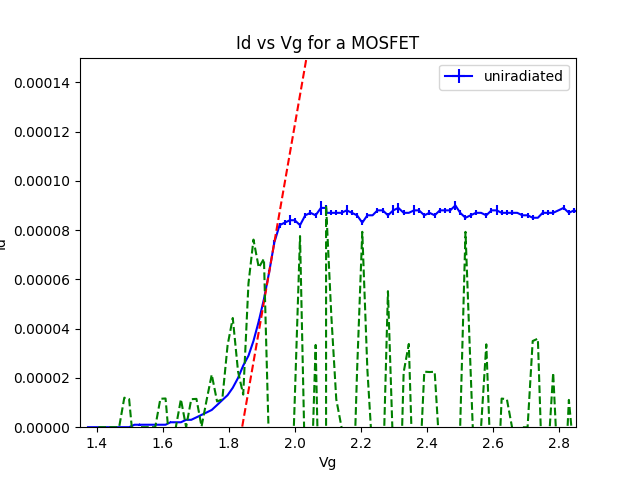
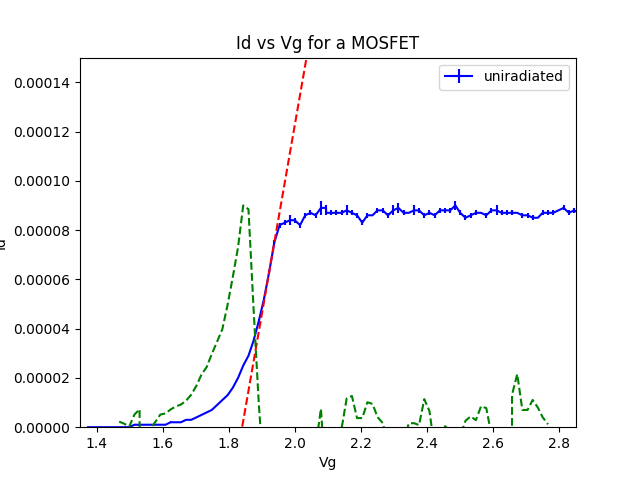
done code???

Changed region(s): [[0.1875, 0.4375, 0.6875, 0.9062], [0.7188, 0.5, 0.9062, 0.9062]]

diff --git a/analysis.py b/analysis.py
@@ -3,11 +3,11 @@ import numpy as np
 import matplotlib.pyplot as plt
 import scipy.stats as stats
 
-iv_graph = True
-steepest_line = True
-derivative = True
-dvt_over_time = False
-lvt_over_time = False
+iv_graph = False
+steepest_line = False
+derivative = False
+dvt_over_time = True
+lvt_over_time = True
 
 if (iv_graph or steepest_line or derivative) and (dvt_over_time or lvt_over_time):
     print("Please only select compatible graph types")
@@ -85,22 +85,30 @@ def calculate_derivative(x, y):
 
 def calculate_smoothed_derivative(x, y):
     derivative = np.array([])
-    r = 3
+    r = 5
+    NC = r * (r + 1) * (2 * r + 1) / 3
     for i in range(r, len(y) - r - 1):
-        #TODO: Implement smoothing algorithm
-        pass
+        sum = 0
+        for j in range(-r, r + 1):
+            sum += y[i + j] * j
+        derivative = np.append(derivative, (sum / NC) * (1/((x[i+1]-x[i])+(x[i]-x[i-1]))/2))
+    return list(derivative)
 
 #calculate and plot derivative
 def plot_derivative(datasets):
     for dataset in datasets:
         currents = dataset[0][0]
         voltages = dataset[1][0]
-        derivative = calculate_derivative(voltages, currents)
-        derivative2 = calculate_derivative(voltages[1:-1], derivative)
+        derivative = calculate_smoothed_derivative(voltages, currents)
+        offset = int(-(len(derivative) - len(voltages)) / 2)
+        voltages = voltages[offset:-offset]
+        derivative2 = calculate_derivative(voltages, derivative)
         max_current = max(currents)
         scaled_derivative2 = np.array(derivative2) * (max_current / max(derivative2))
         offset = int(-(len(derivative2) - len(voltages)) / 2)
-        voltages = voltages[offset:-offset]
+        print("offset:", offset)
+        voltages = voltages[offset:-offset-1]
+        print("voltages:", len(voltages), "derivative2:", len(derivative2))
         plt.errorbar(voltages,scaled_derivative2,fmt="--", color = 'green')
         index_max_derivative2 = derivative2.index(max(derivative2))
         max_derivative2_voltage = voltages[index_max_derivative2]
@@ -117,14 +125,41 @@ def plot_derivative_thresholds_time(datasets):
         current_std = dataset[0][1]
         voltages = dataset[1][0]
         voltage_std = dataset[1][1]
-        derivative = calculate_derivative(voltages, currents)
-        derivative2 = calculate_derivative(voltages[1:-1], derivative)
-        offset = int(-(len(derivative2) - len(voltages)) / 2)
+        derivative = calculate_smoothed_derivative(voltages, currents)
+        offset = int(-(len(derivative) - len(voltages)) / 2)
         voltages = voltages[offset:-offset]
+        derivative2 = calculate_derivative(voltages, derivative)
+        offset = int(-(len(derivative2) - len(voltages)) / 2)
+        voltages = voltages[offset:-offset-1]
         index_max_derivative2 = derivative2.index(max(derivative2))
         max_derivative2_voltages.append(voltages[index_max_derivative2])
         errors.append(max((voltages[index_max_derivative2 + 1]) - voltages[index_max_derivative2], voltages[index_max_derivative2] - voltages[index_max_derivative2 - 1]))
-    plt.errorbar(times, max_derivative2_voltages, xerr = voltage_std, yerrs = errors, color = 'green')
+    plt.errorbar(times, max_derivative2_voltages, yerr = errors, color = 'green', label="2nd derivative method")
+
+def plot_steepest_threshold_time(datasets):
+    x_intercepts = []
+    errors = []
+    times = range(0, len(datasets))
+    for dataset in datasets:
+        currents = dataset[0][0]
+        current_std = dataset[0][1]
+        voltages = dataset[1][0]
+        voltage_std = dataset[1][1]
+        max_derivative = 0
+        max_derivative_index = 0
+        for i in range(len(currents) - 1):
+            gradient = (currents[i + 1] - currents[i]) / (voltages[i + 1] - voltages[i])
+            if gradient > max_derivative and currents[i] > 0:
+                max_derivative = gradient
+                max_derivative_index = i
+                gradient_err = gradient * np.sqrt((current_std[i] / currents[i])**2 + (voltage_std[i + 1] / voltages[i + 1])**2 + (voltage_std[i] / voltages[i])**2)
+        f = lambda x : max_derivative * (x - voltages[max_derivative_index]) + currents[max_derivative_index]
+        #error calculations
+        x_intercept = (-currents[max_derivative_index] / max_derivative) + voltages[max_derivative_index]
+        error = np.sqrt((currents[max_derivative_index] / max_derivative) * np.sqrt((current_std[max_derivative_index] / currents[max_derivative_index])**2 + (gradient_err / max_derivative)**2)**2 + voltage_std[max_derivative_index]**2)
+        x_intercepts.append(x_intercept)
+        errors.append(error)
+    plt.errorbar(times, x_intercepts, yerr = errors, color = 'red', label="steepest line method")
 
 
 datasets = xml_to_datasets(data_file)
@@ -145,10 +180,12 @@ if dvt_over_time:
     title = "Threshold Voltage vs Time"
     plt.ylabel('Vt')
     plt.xlabel('Time hrs')    
+if lvt_over_time:
+    plot_steepest_threshold_time(datasets)
 
 if iv_graph:
     file_name = "Graphs/" + data_file[5:-4] + "_iv" + ".png"
-if dvt_over_time:
+if dvt_over_time or lvt_over_time:
     file_name = "Graphs/" + data_file[5:-4] + "_VtT" + ".png"
 plt.legend()
 plt.title(title)
